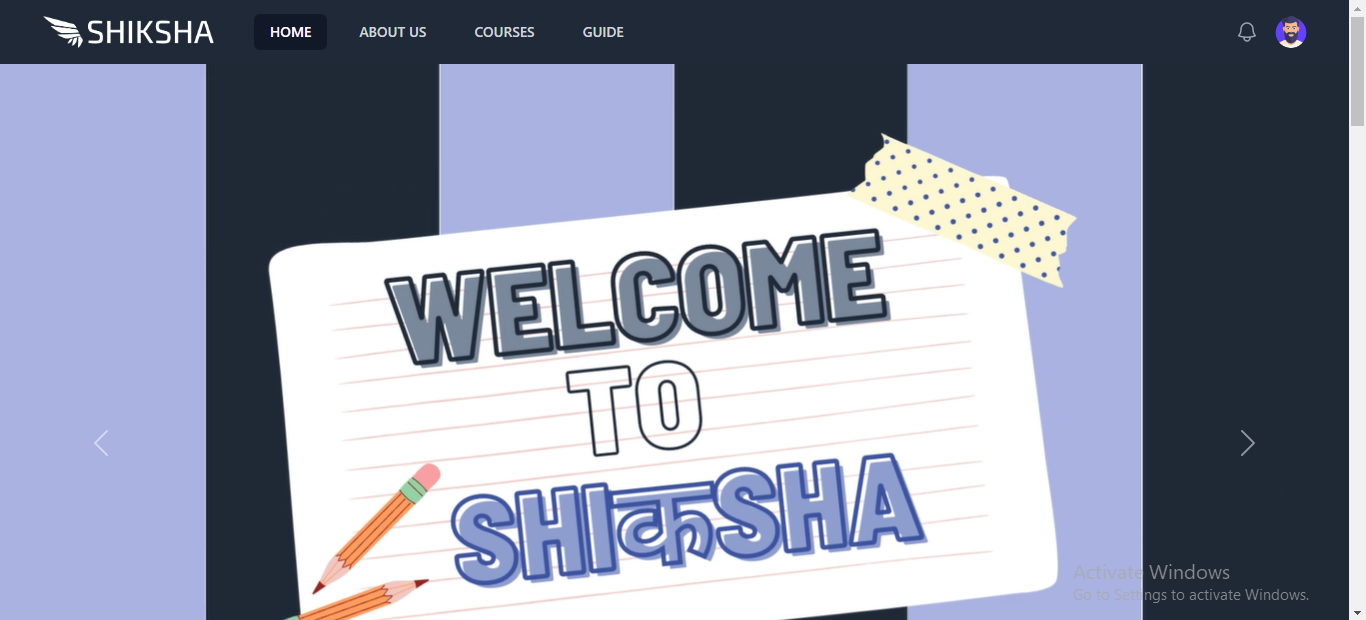
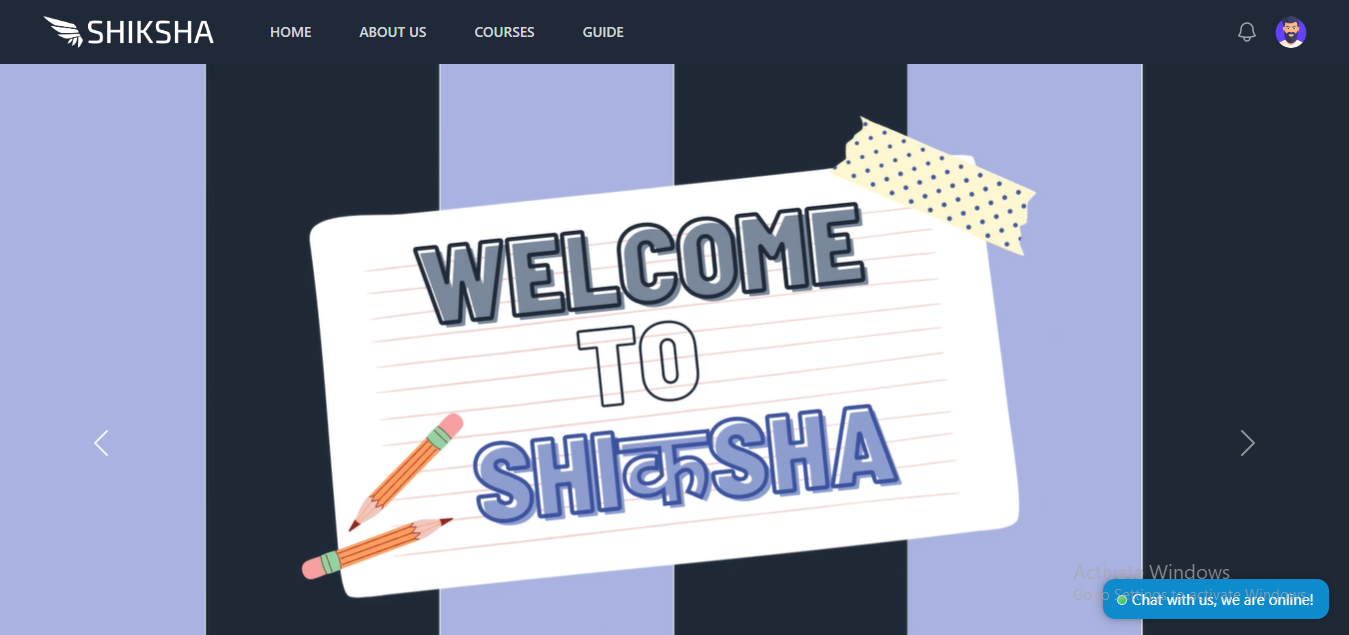
Chatbot

diff --git a/src/App.js b/src/App.js
@@ -43,6 +43,17 @@ function App() {
       callback: (redirectPage) => setRedirectUrl(redirectPage),
     },
   ];
+  
+  (function(d, w, c) {
+    w.ChatraID = '5vCLi7r4tiubquMC9';
+    var s = d.createElement('script');
+    w[c] = w[c] || function() {
+        (w[c].q = w[c].q || []).push(arguments);
+    };
+    s.async = true;
+    s.src = 'https://call.chatra.io/chatra.js';
+    if (d.head) d.head.appendChild(s);
+})(document, window, 'Chatra');
 
   const { transcript } = useSpeechRecognition({ commands });
   const [redirectUrl, setRedirectUrl] = useState("");

diff --git a/README.md b/README.md
@@ -21,3 +21,7 @@
 ## Screenshots (Login & Profile)
 <img src = "src/images/ss/ss12.png" />
 <img src = "src/images/ss/ss11.png" />
+
+## Screenshots (Chatbot)
+<img src = "src/images/ss/ss13.png" />
+<img src = "src/images/ss/ss14.png" />
